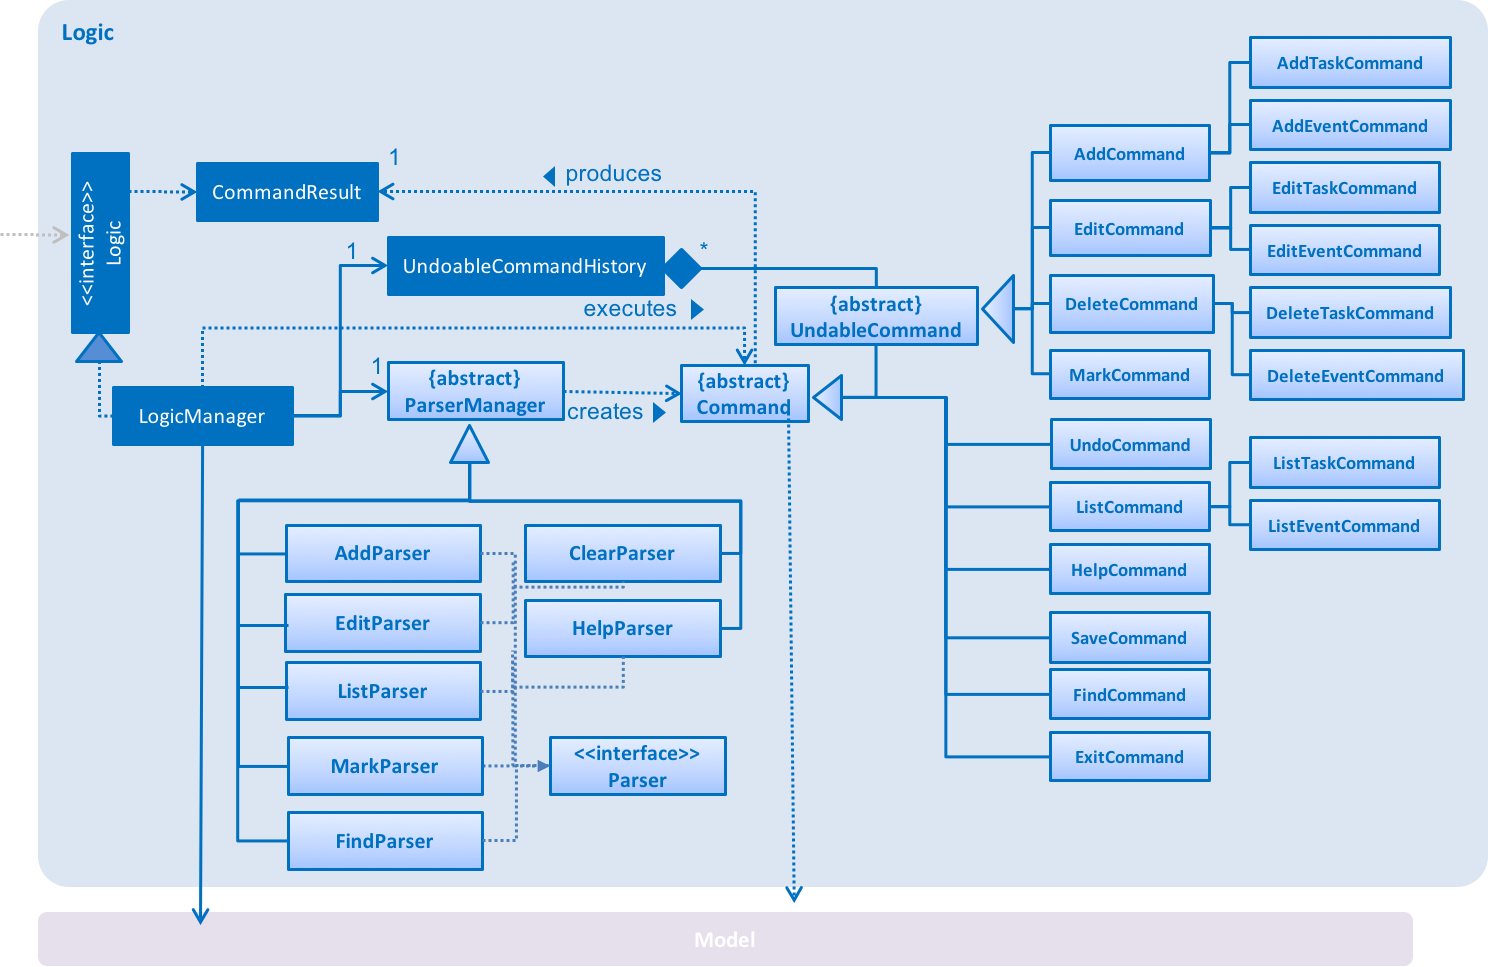
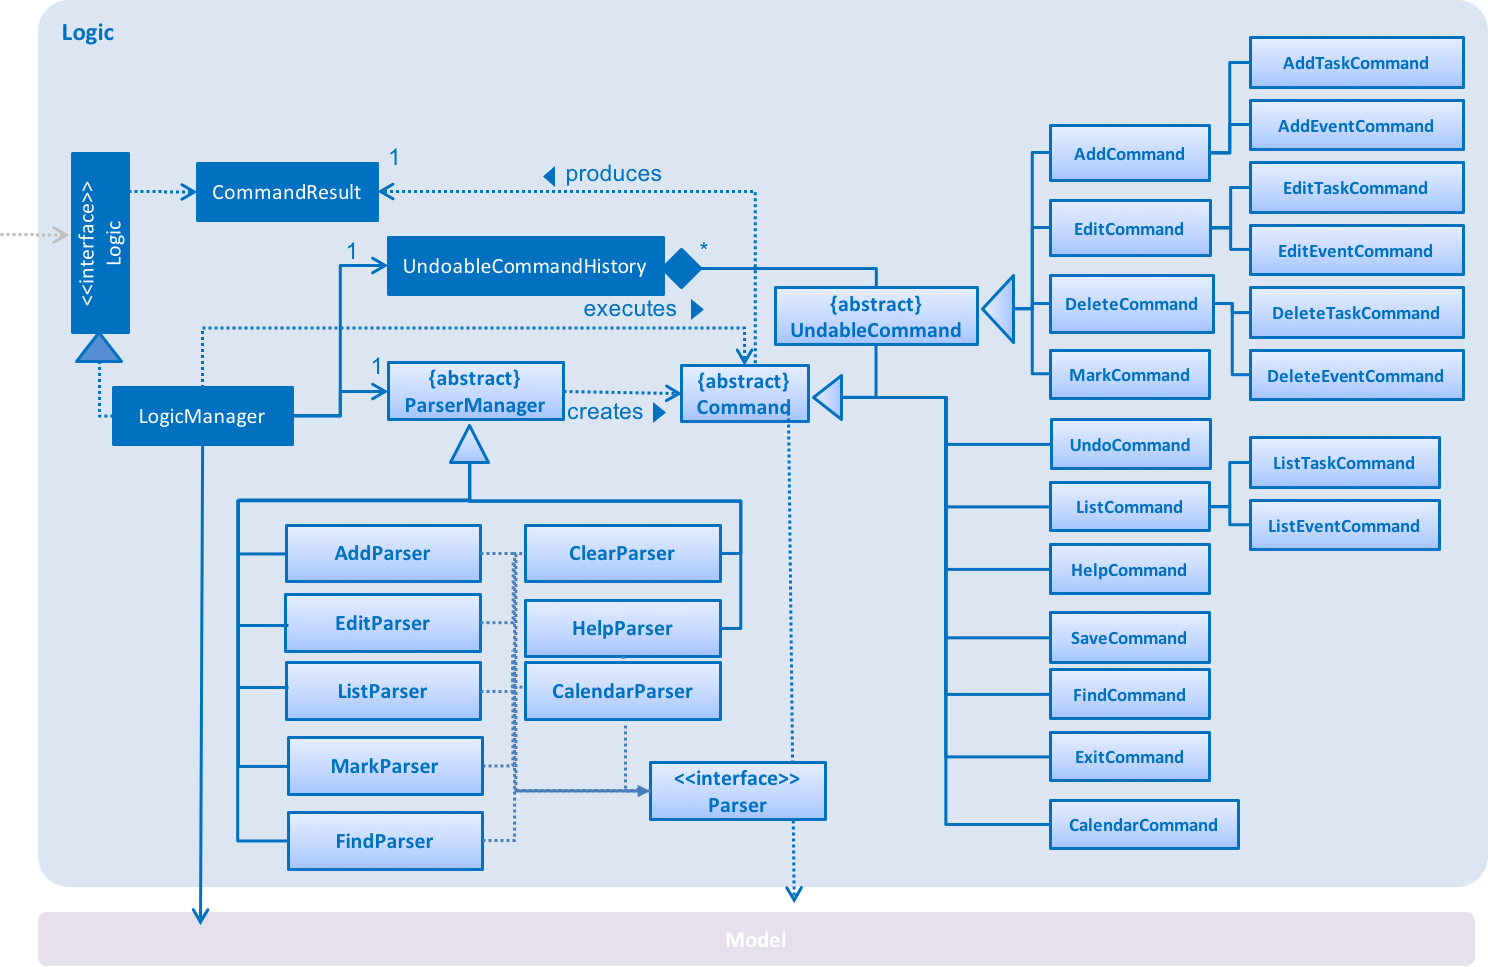
update docs

diff --git a/docs/DeveloperGuide.md b/docs/DeveloperGuide.md
@@ -3,9 +3,6 @@
 * [Setting Up](#setting-up)
 * [Design](#design)
 * [Implementation](#implementation)
-* [Testing](#testing)
-* [Continuous Integration](#continuous-integration)
-* [Making a Release](#making-a-release)
 * [Managing Dependencies](#managing-dependencies)
 * [Appendix A: User Stories](#appendix-a--user-stories)
 * [Appendix B: Use Cases](#appendix-b--use-cases)
@@ -94,8 +91,8 @@ The sections below give more details of each component.
 
 **API** : [`Ui.java`](../src/main/java/seedu/address/ui/Ui.java)
 
-The UI consists of a `MainWindow` that is made up of parts e.g.`CommandBox`, `ResultDisplay`, `PersonListPanel`,
-`StatusBarFooter`, `BrowserPanel` etc. All these, including the `MainWindow` inherits from the abstract `UiPart` class
+The UI consists of a `MainWindow` that is made up of parts e.g.`CommandBox`, `ResultDisplay`, `TaskListPanel`, `EventListPanel`, `CalendarView`,
+`StatusBarFooter` etc. All these, including the `MainWindow` inherits from the abstract `UiPart` class
 and they can be loaded using the `UiPartLoader`.
 
 The `UI` component uses JavaFx UI framework. The layout of these UI parts are defined in matching `.fxml` files
@@ -108,6 +105,7 @@ The `UI` component,
 * Binds itself to some data in the `Model` so that the UI can auto-update when data in the `Model` change.
 * Responds to events raises from various parts of the App and updates the UI accordingly.
 
+<!-- @@author A0144702N -->
 ### Logic component
 
 <img src="images/LogicClassDiagram.png" width="800"><br>
@@ -118,6 +116,9 @@ The `UI` component,
 2. This results in a `Command` object which is executed by the `LogicManager`.
 3. The command execution can affect the `Model` (e.g. adding a person) and/or raise events.
 4. The result of the command execution is encapsulated as a `CommandResult` object which is passed back to the `Ui`
+5. The UndoableCommandHistory applies the Singleton pattern which holds the sole copy of the modifications done to the Taskbook. 
+6. We did not choose to store a list of events/tasks, or copies of taskbooks as a history. Instead, we chose to store a stack of commands which are more lightweighted, and occupy less storage. 
+<!-- @@author  -->
 
 ### Model component
 
@@ -128,7 +129,7 @@ The `UI` component,
 The `Model`,
 * Stores a `UserPref` object that represents the user's preferences
 * Stores the Address Book data
-* Exposes a `UnmodifiableObservableList<ReadOnlyPerson` that can be 'observed' e.g. the UI can be bound to this list
+* Exposes a `UnmodifiableObservableList<ReadOnlyTask>` as well as `UnmodifiableObservableList<ReadOnlyEvent>` that can be 'observed' e.g. the UI can be bound to this list
   so that the UI automatically updates when the data in the list change.
 * Does not depend on any of the other three components.
 
@@ -144,7 +145,7 @@ The `Storage` component,
 
 ### Common classes
 
-Classes used by multiple components are in the `seedu.addressbook.commans` package. 
+Classes used by multiple components are in the `seedu.taskbook.commans` package. 
 
 ## Implementation
 
@@ -184,64 +185,17 @@ Certain properties of the application can be controlled (e.g App name, logging l
 (default: `config.json`):
 
 
-## Testing
-
-**In Eclipse**: 
-> If you are not using a recent Eclipse version (i.e. _Neon_ or later), enable assertions in JUnit tests
-  as described [here](http://stackoverflow.com/questions/2522897/eclipse-junit-ea-vm-option).
-
-* To run all tests, right-click on the `src/test/java` folder and choose 
-  `Run as` > `JUnit Test`
-* To run a subset of tests, you can right-click on a test package, test class, or a test and choose 
-  to run as a JUnit test.
-  
-**Using Gradle**:
-* See [UsingGradle.md](UsingGradle.md) for how to run tests using Gradle. 
-
-Tests can be found in the `./src/test/java` folder.
-
-1. **GUI Tests** - These are _System Tests_ that test the entire App by simulating user actions on the GUI. 
-   These are in the `guitests` package.
-  
-2. **Non-GUI Tests** - These are tests not involving the GUI. They include,
-   1. _Unit tests_ targeting the lowest level methods/classes. <br>
-      e.g. `seedu.address.commons.UrlUtilTest`
-   2. _Integration tests_ that are checking the integration of multiple code units 
-     (those code units are assumed to be working).<br>
-      e.g. `seedu.address.storage.StorageManagerTest`
-   3. Hybrids of unit and integration tests. These test are checking multiple code units as well as 
-      how the are connected together.<br>
-      e.g. `seedu.address.logic.LogicManagerTest`
-  
-**Headless GUI Testing** :
-Thanks to the ([TestFX](https://github.com/TestFX/TestFX)) library we use,
- our GUI tests can be run in the _headless_ mode. 
- In the headless mode, GUI tests do not show up on the screen.
- That means the developer can do other things on the Computer while the tests are running.<br>
- See [UsingGradle.md](UsingGradle.md#running-tests) to learn how to run tests in headless mode.
-  
-## Continuous Integration
-
-We use [Travis CI](https://travis-ci.org/) to perform _Continuous Integration_ on our projects.
-See [UsingTravis.md](UsingTravis.md) for more details.
-
-## Making a Release
-
-Here are the steps to create a new release.
- 
- 1. Generate a JAR file [using Gradle](UsingGradle.md#creating-the-jar-file).
- 2. Tag the repo with the version number. e.g. `v0.1`
- 2. [Crete a new release using GitHub](https://help.github.com/articles/creating-releases/) 
-    and upload the JAR file your created.
-   
+<!-- @@author A0144702N -->
 ## Managing Dependencies
+We use several external dependencies:
+1. [Jackson library](http://wiki.fasterxml.com/JacksonHome) for XML parsing.
+2. [Guava](https://github.com/google/guava)
+3. [Controlsfx](http://fxexperience.com/controlsfx/) for javafx controls.
+4. [testfx](https://github.com/TestFX/TestFX) for javafx testing. 
+5. [prettytime](https://github.com/ocpsoft/prettytime/tree/master/nlp) for natural language processing of time and date. 
+6. [jfxtras](http://jfxtras.org) for calendar view controls. 
+The dependencies are bound into the jar release and will not require extra dependencies handling for end users. 
 
-A project often depends on third party libraries. For example, Address Book depends on the 
-[Jackson library](http://wiki.fasterxml.com/JacksonHome) for XML parsing. Managing these _dependencies_
-can be automated using Gradle. For example, Gradle can download the dependencies automatically, which
-is better than these alternatives.<br>
-a. Include those libraries in the repo (this bloats the repo size)<br>
-b. Require developers to download those libraries manually (this creates extra work for developers)<br>
 
 ## Appendix A : User Stories
 :bomb: Priorities:
@@ -263,12 +217,12 @@ Priority | As a ... | I want to ... | So that I can...
 `* * *` | user | be able to specify my storage location to save my files | keep my files saved in different responsories
 `* * *` | user | be able to seek help with the operations and commands of the program | keep the program user friendly
 `* * *` | user | be able to exit the program | keep a proper shutdown of the program
-`* * *` | user | be able to simple search for tasks using keywords that are in the description | retrieve tasks easily
+`* * *` | user | be able to simple search for tasks using keywords that are in the name and description | retrieve tasks easily
 `* * *` | user | be able undo the most recent modification | revert from unintended modifications. 
 `* * *` | user | be able to use flexible commands when adding tasks | have greater flexibility in adding tasks.
 `* *` | user | be able to edit the category of an existing task or event in the program | correct any changes in categorization
 `* *` | user | be able to search any words related to a task | retrieve tasks more easily
-
+`* *` | user | see a snapshot of events in the calendar view | retrieve informaiton in a graphical way.
 
 
 ## Appendix B : Use Cases
@@ -305,6 +259,7 @@ Use case ends.
     Use case resumes at step 1
 
 <br>
+<!-- @@author A0144702N -->
 #### Use case 3: List tasks/events
 
 **MSS**
@@ -420,7 +375,7 @@ The SD for list events is similiar to task.
   Use case resumes at step 1
 
 <br>
-
+<!-- @@author A0144702N -->
 #### Use case 10: Simple find for tasks  
 
 **MSS**
@@ -440,6 +395,7 @@ The SD for list events is similiar to task.
 
 <br>
 
+<!-- @@author A0144702N -->
 #### Use case 11: Undo modification
 
 **MSS**
@@ -455,12 +411,31 @@ Extensions
   > 1a1. Taskbook displays displays a message indicating no commands can be undone
   Use case ends
 
-Besides the abstract SD as shown in the section [Design](#design). A more detailed Sequence Diagram of undo a deletion of task is shown below:
+Besides the abstract SD as shown in the section [Design](#design). A more detailed Sequence Diagram of undo a deletion of task is shown below. 
 
 <img src="images/UndoOverall.png" width="800"><br>
 <img src="images/UndoRefSD.png" width="800"><br>
 
+#### Use case 12: Show calendar views
 
+**MSS**
+1. User requests to show a certain time period with a certain view.
+2. Calendar view is updated in the TaskBook. 
+  
+  Use Case ends
+
+
+**Extensions**
+1a. User key in invalid time or date. 
+  > 1a1. Taskbook feedbacks time is not valid.
+
+  Use Case ends
+
+Notice how this command does not involve the Model Component at all. Since it does not need to retrieve or modidfy data in the model. 
+
+<img src="images/ShowSD.png" width="800"><br>
+
+<!-- @@author --> 
 
 ## Appendix C : Non Functional Requirements
 - Storage
@@ -509,6 +484,7 @@ are
 
 ## Appendix E : Product Survey
 
+<!-- @@author A0144702N -->
 ####iCalendar 
 ------
 **Summary** 
@@ -552,6 +528,8 @@ are
 **Feedback**
 > Highly recommended for all memebrs to use it. 
 
+<!-- @@author -->
+
 ------
 ####Todo.txt
 **Summary:**
@@ -593,6 +571,7 @@ are
 > 2. Requires user to use Apple products for mobile phones and laptop as the app is limited to the Apple community
 
 
+<!-- @@author A0144702N -->
 ## Appendix F : Pull Request
 
 None of the parts below are compulsory for a PR, but a good template to follow in general. Developers are free to add in or remove sections as stated below. 

diff --git a/docs/UserGuide.md b/docs/UserGuide.md
@@ -64,9 +64,9 @@ Examples:
 * `add CS2103 Exam /desc final examination @ MPSH3 /from today 4pm > 6pm` <br>
 * `add CS2103 Workshop /desc OOP workshop /from 1-12-16 > 7-12-16` <br>
 
-
+<!-- @@author A0144702N -->
 #### Listing tasks
-Shows a list of tasks that are not marked done. <br>
+Shows a list of tasks that are not marked done. Or shows a list of all tasks. <br>
 
 Format: `list /t [/a]`
 
@@ -81,7 +81,7 @@ Examples:
 
 
 #### Listing events
-Shows a list of all events that are completed. <br>
+Shows a list of events that are not completed. Or shows a list of all events. <br>
 
 Format: `list /e [/a]` <br>
 
@@ -192,19 +192,19 @@ Can go back to historical versions of the TaskBook with the use of undo commands
 
 Format: `undo`
 
-
+<!-- @@author A0144702N -->
 #### Finding for events/tasks
-With the find command, you can find for tasks or events which contain some keywords in their name as well as in their descriptions. 
+With the find command, you can find for tasks or events which contain some keywords in their **name** as well as in their **descriptions**. 
 
 Format: `find [/e|/t] KEYWORD [MORE_KEYWORDS]`
 
-> `KEYWORDS` are case sensitive. Events/Tasks which contain at least one keyword in their names will be returned. 
+> `KEYWORDS` are case insensitive. Events/Tasks which contain at least one keyword in their names will be returned. 
 
 Examples:
-* `find CS2103`
+* `find cs2103`
   Shows tasks and events which have CS2103 (ignoring cases) in their names or description.
-* `find CS2104`
-  Returns relevant information of "CS2103 Exam" but not "cs2103 Exam"
+* `find CS`
+  Partial match is not supported. Will not return any other tasks or events unless they contain "CS" (ignoring cases) in the names or description.
 * `find CS2106 CS2103`
   Returns any tasks or events having "CS2106", "CS2103" in their names. 
 
@@ -250,9 +250,9 @@ Examples:
 * `clear /a` <br>
   Clears all tasks and events.
   
-
+<!-- @@author A0144702N -->
 #### Toggle calendar view
-Toggle the view of calendar and jump to certain time time as user specified. 
+Toggle the view of calendar and focus to certain time time as user specified. 
 
 Format: `show TIME [/day|/wk]`
 
